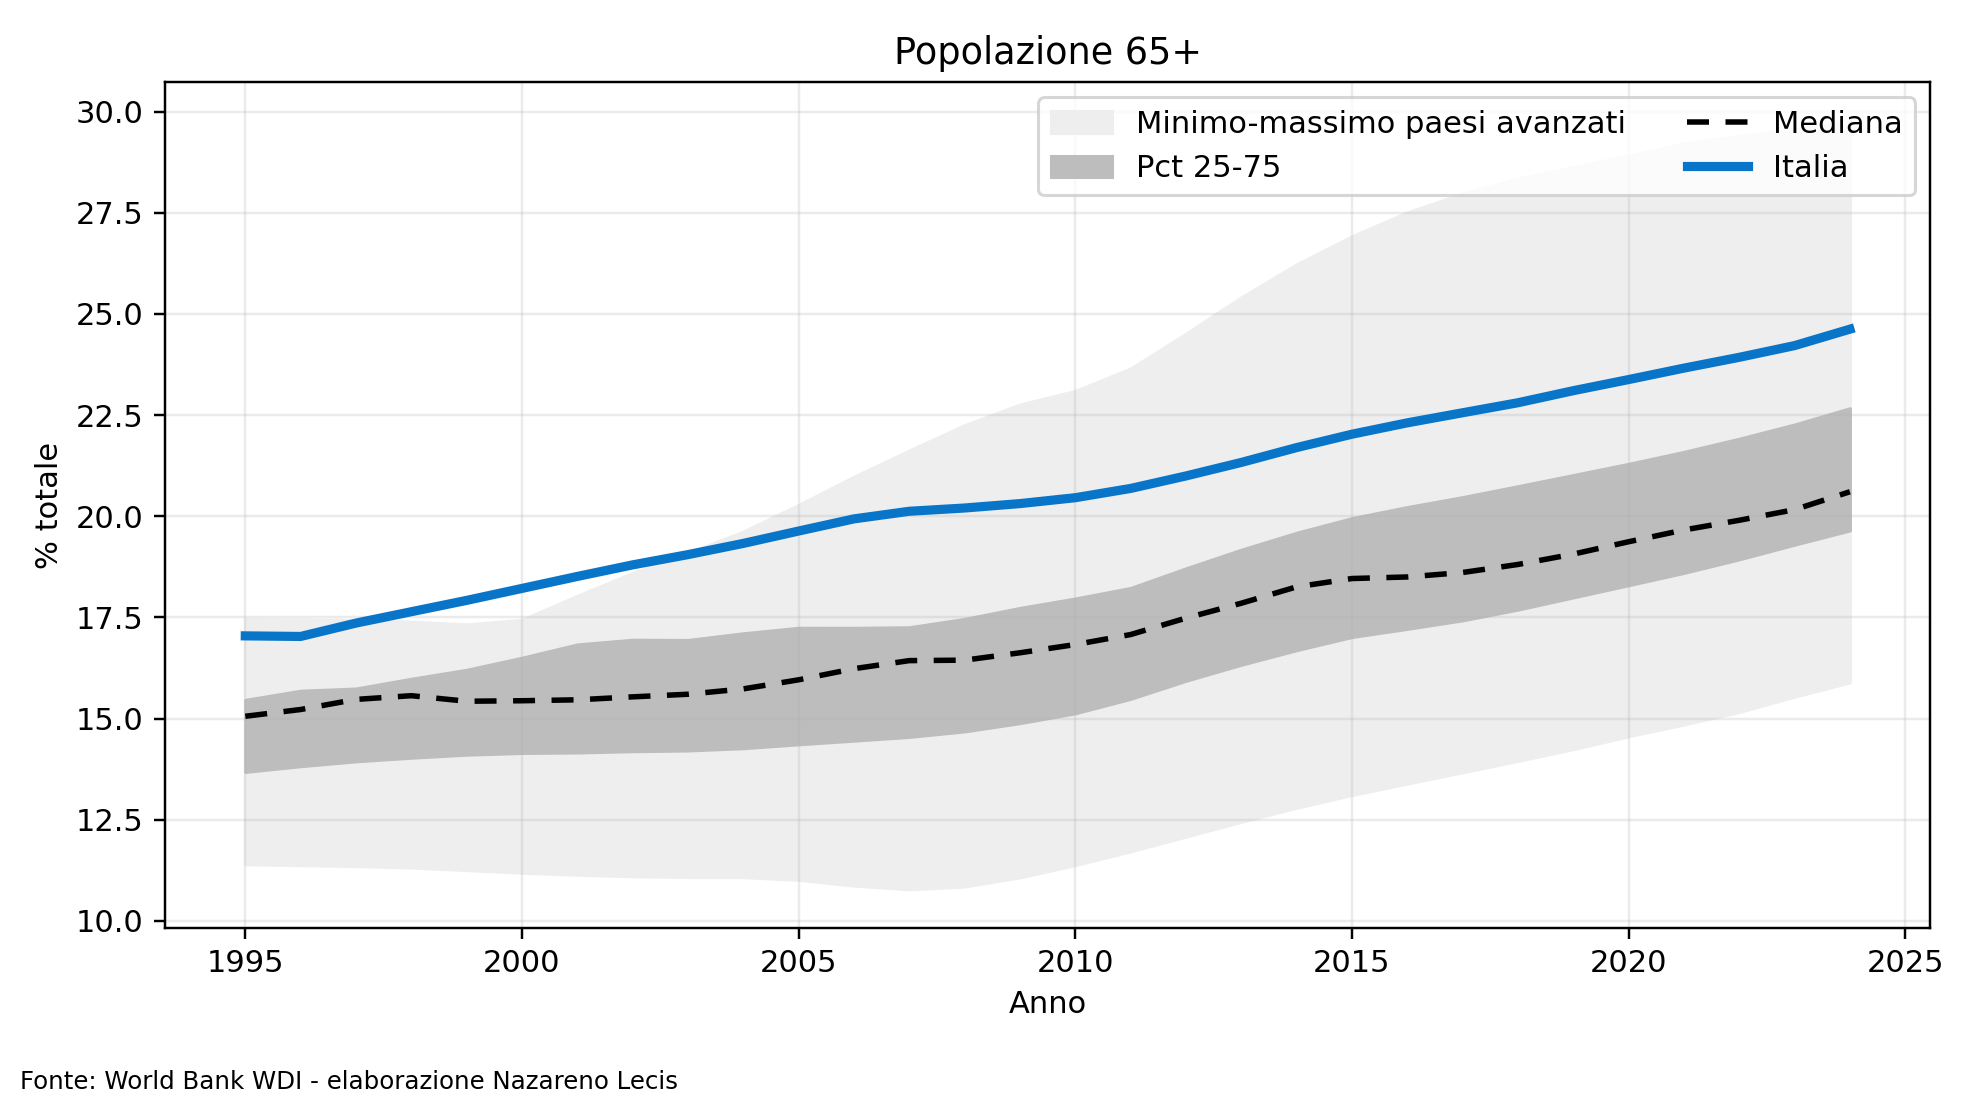
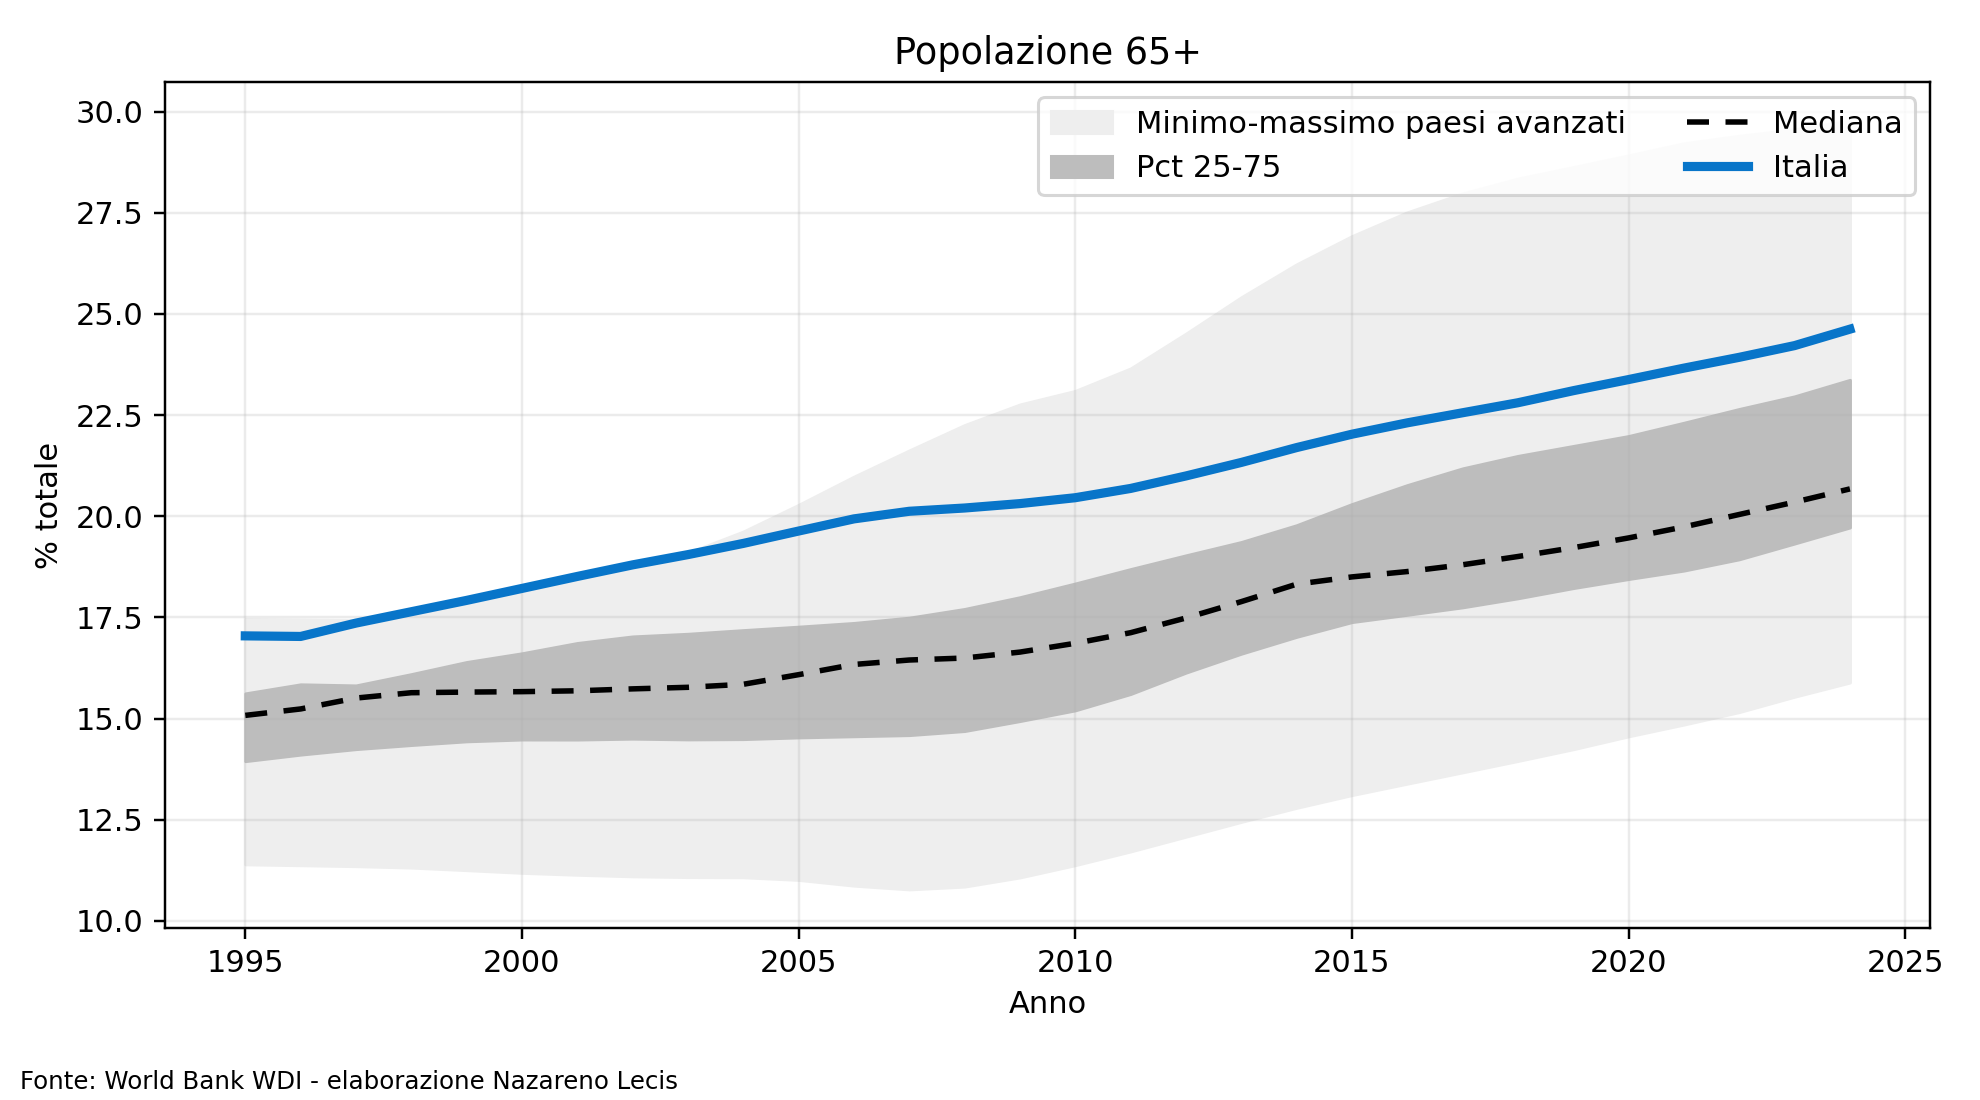
Fix population 65+ comparison band

diff --git a/analisi/utils/api_indicators.py b/analisi/utils/api_indicators.py
@@ -532,12 +532,12 @@ def plot_indicator(panel: pd.DataFrame, indicator_id: str, outdir: Path = PLOTS_
 
     if n_countries > 8 and "ITA" in set(sub["country_key"]):
         pivot = sub.pivot_table(index="year", columns="country_key", values="value", aggfunc="mean").sort_index()
-        peer_cols = [c for c in pivot.columns if c not in {"ITA", "EU"}]
-        peer = pivot[peer_cols]
+        country_cols = [c for c in pivot.columns if c != "EU"]
+        advanced = pivot[country_cols]
         years = pivot.index.to_numpy()
-        ax.fill_between(years, peer.min(axis=1), peer.max(axis=1), color="#eeeeee", label="Minimo-massimo paesi avanzati")
-        ax.fill_between(years, peer.quantile(0.25, axis=1), peer.quantile(0.75, axis=1), color="#bdbdbd", label="Pct 25-75")
-        ax.plot(years, peer.median(axis=1), color="black", linestyle=(0, (4, 3)), linewidth=1.8, label="Mediana")
+        ax.fill_between(years, advanced.min(axis=1), advanced.max(axis=1), color="#eeeeee", label="Minimo-massimo paesi avanzati")
+        ax.fill_between(years, advanced.quantile(0.25, axis=1), advanced.quantile(0.75, axis=1), color="#bdbdbd", label="Pct 25-75")
+        ax.plot(years, advanced.median(axis=1), color="black", linestyle=(0, (4, 3)), linewidth=1.8, label="Mediana")
         ax.plot(years, pivot["ITA"], color="#0875c9", linewidth=3, label="Italia")
     else:
         for key, country_sub in sub.sort_values("year").groupby("country_key"):